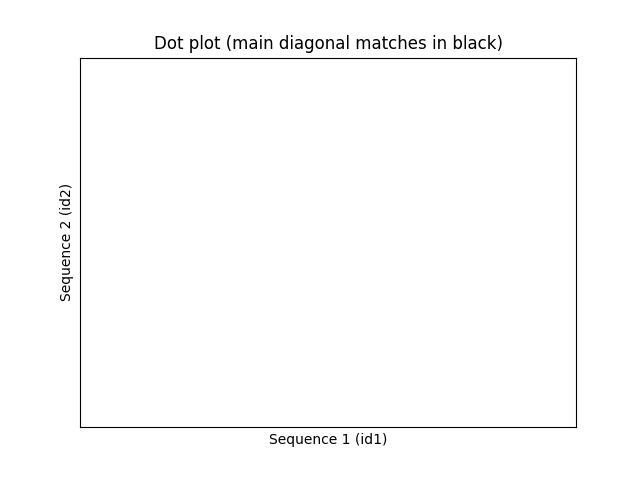
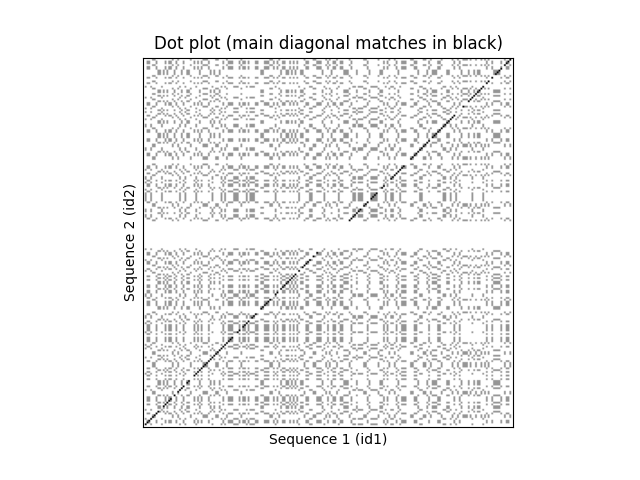
plot fix

Changed region(s): [[0.1875, 0.125, 0.8125, 0.9062], [0.0938, 0.375, 0.125, 0.625]]

diff --git a/FastaAlignerPlotter.py b/FastaAlignerPlotter.py
@@ -239,8 +239,9 @@ for i, item1 in enumerate(fasta_dict.items()):
             # Set the plot title.
             plt.title('Dot plot (main diagonal matches in black)')
             
-            # Save the plot.
+            plt.imshow(im, cmap='Greys')
+            
+            # Save the plot in the folder dotplots.
             if not os.path.exists('dotplots'):
                 os.mkdir('dotplots')
-            
             plt.savefig(f'dotplots/{id1}_{id2}.png')
